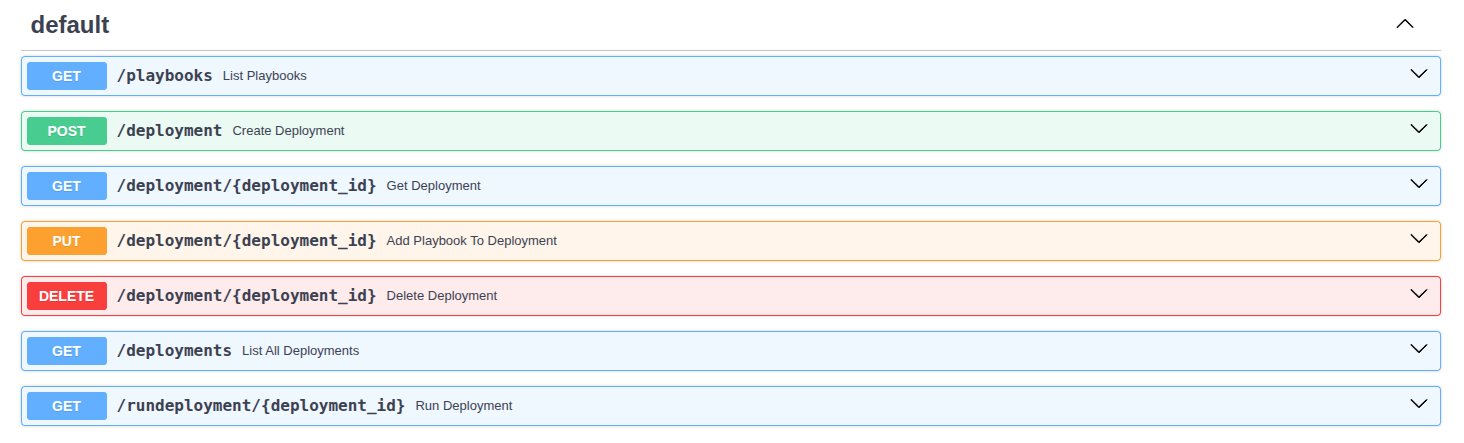
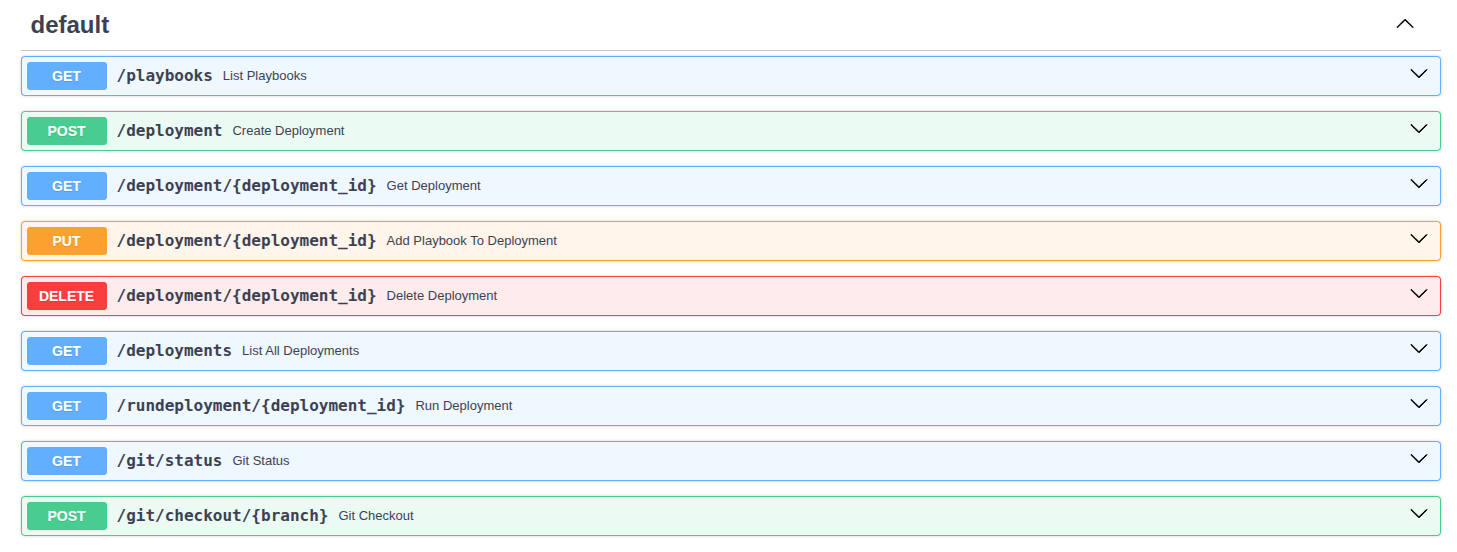
added git status and git checkout feature branch api endpoints

Changed region(s): [[0.0, 0.0293, 0.9883, 0.9977], [0.9574, 0.0293, 0.9883, 0.0587]]

diff --git a/api.py b/api.py
@@ -210,3 +210,32 @@ def run_deployment(deployment_id: str):
             yield from run_playbook_streamed(playbook, inventory, tags, skip_tags, run_id)
 
     return StreamingResponse(stream_all(), media_type="text/plain")
+
+def run_git_command(args: list) -> str:
+    process = subprocess.Popen(
+        args,
+        cwd=base_path,
+        stdout=subprocess.PIPE,
+        stderr=subprocess.STDOUT,
+        text=True
+    )
+    output, _ = process.communicate()
+    return output
+
+@app.get("/git/status")
+def git_status():
+    if not os.path.isdir(os.path.join(base_path, ".git")):
+        raise HTTPException(status_code=400, detail="Kein Git-Repository im base_path gefunden")
+    output = run_git_command(["git", "status"])
+    return {"status": output}
+
+@app.post("/git/checkout/{branch}")
+def git_checkout(branch: str):
+    if not os.path.isdir(os.path.join(base_path, ".git")):
+        raise HTTPException(status_code=400, detail="Kein Git-Repository im base_path gefunden")
+    fetch_output = run_git_command(["git", "fetch"])
+    checkout_output = run_git_command(["git", "checkout", branch])
+    return {
+        "fetch": fetch_output,
+        "checkout": checkout_output
+    }

diff --git a/README.md b/README.md
@@ -9,12 +9,14 @@ Dieses Tool führt mehrere Ansible-Playbooks aus, misst deren Laufzeit und Statu
 - Zeitmessung, Exit-Code, Anzahl der Versuche
 - Speicherung in `deployment.db` (SQLite)
 - Push von Metriken an Prometheus Pushgateway
-- REST-API zur Steuerung von Playbooks (todo)
+- REST-API zur Steuerung von Playbooks und git branches
 - Grafana-Dashboard zur Visualisierung
 
 ## ⚙ Konfiguration (`config.yaml`)
 
 ```yaml
+base_path: /opt/dpl
+
 playbooks:
   - name: folder
     file: playbooks/folder.yaml
@@ -26,6 +28,19 @@ playbooks:
 prometheus:
   job_name: ansible_deployment
   pushgateway_url: http://localhost:9091
+```
+* Erzeuge dann einen Ordner /opt/dpl, kopiere die Beispiele und initialisiere ein git repro daraus
+```bash
+sudo mkdir -p /opt/dpl
+sudo chown -R $USER:$USER /opt/dpl
+cp -r inventories /opt/dpl/
+cp -r playbooks /opt/dpl/
+cd /opt/dpl
+git init
+git branch -M main
+git add .
+git commit -m "Initial commit of /opt/dpl structure"
+git checkout -b feature-test
 ```
 
 ## uv setup
@@ -53,6 +68,8 @@ Siehe: https://github.com/wlanboy/deployment_monitor/tree/main/prometheus
 Siehe: http://localhost:3000/d/deployments/deployments?orgId=1&from=now-15m&to=now&timezone=browser&var-datasource=bezwwgua3ke80f&refresh=30s
 
 ![Grafana Dashboard](dashboards/dashboard.png)
+
+#
 
 ## 🚀 Starten der API
 ```bash
@@ -158,4 +175,14 @@ curl "http://localhost:8000/deployment/76aaf757-761d-45a1-9136-ab05c02b7185"
 ### 🚀 4. Deployment ausführen
 ```bash
 curl "http://localhost:8000/rundeployment/76aaf757-761d-45a1-9136-ab05c02b7185"
+```
+
+## 📋 Git-Status anzeigen
+```bash
+curl "http://localhost:8000/git/status"
+```
+
+## 🔀 Branch wechseln
+```bash
+curl -X POST "http://localhost:8000/git/checkout/feature-test"
 ```
